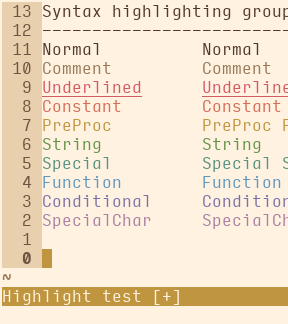
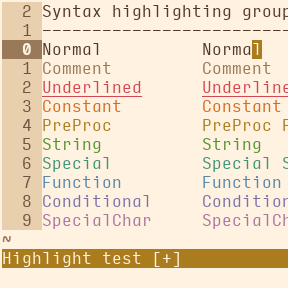
overhaul

Changed region(s): [[0.0, 0.0, 1.0, 0.9688], [0.6875, 0.75, 1.0, 0.8125]]

diff --git a/transmogrify.md b/transmogrify.md
@@ -18,19 +18,21 @@
 %s/e8e8e8/e8d0ae/ |
 %s/f8f8f8/fff2e0/ |
 
-%s/ab4642/d45963/ |
-%s/dc9656/d46d59/ |
-%s/f7ca88/bf953f/ |
-%s/a1b56c/63944a/ |
-%s/86c1b9/56947f/ |
-%s/7cafc2/6097bf/ |
+%s/ab4642/d44652/ |
+%s/dc9656/d46d24/ |
+%s/f7ca88/ab7c1d/ |
+%s/a1b56c/529431/ |
+%s/86c1b9/3e9477/ |
+%s/7cafc2/5687ab/ |
 %s/ba8baf/7c72ab/ |
-%s/a16946/ab80a4/ |
+%s/a16946/ab73a2/ |
 
 %s/Character",    s:gui08, "", s:cterm08/Character",    s:gui0A, "", s:cterm0A/ |
 %s/Cursor",        s:gui00, s:gui05, s:cterm00, s:cterm05/Cursor",        s:gui00, s:gui0A, s:cterm00, s:cterm0A/ |
+%s/CursorLineNr",  s:gui04, s:gui01, s:cterm04, s:cterm01/CursorLineNr",  s:gui00, s:gui03, s:cterm00, s:cterm03/ |
 %s/Identifier",   s:gui08, "", s:cterm08, "", "none/Identifier",   s:gui0A, "", s:cterm0A, "", "bold/ |
 %s/LineNr",        s:gui03, s:gui01, s:cterm03/LineNr",        s:gui04, s:gui01, s:cterm04/ |
+%s/MatchParen",    "", s:gui03, "", s:cterm03/MatchParen",    s:gui00, s:gui03, s:cterm00, s:cterm03/ |
 %s/Search",        s:gui03, s:gui0A, s:cterm03, s:cterm0A/Search",        s:gui00, s:gui04, s:cterm00, s:cterm04/ |
 %s/statusline",    s:gui04, s:gui02, s:cterm04, s:cterm02/statusline",    s:gui00, s:gui0A, s:cterm00, s:cterm0A/ |
 %s/StatusLineNC",  s:gui03, s:gui01, s:cterm03, s:cterm01/StatusLineNC",  s:gui05, s:gui01, s:cterm05, s:cterm01/ |
@@ -57,14 +59,14 @@ normal =gg
 %s#d8/d8/d8#bf/a5/80# |
 %s#e8/e8/e8#e8/d0/ae# |
 %s#f8/f8/f8#ff/f2/e0# |
-%s#ab/46/42#d4/59/63# |
-%s#dc/96/56#d4/6d/59# |
-%s#f7/ca/88#bf/95/3f# |
-%s#a1/b5/6c#63/94/4a# |
-%s#86/c1/b9#56/94/7f# |
-%s#7c/af/c2#60/97/bf# |
+%s#ab/46/42#d4/46/52# |
+%s#dc/96/56#d4/6d/24# |
+%s#f7/ca/88#ab/7c/1d# |
+%s#a1/b5/6c#52/94/31# |
+%s#86/c1/b9#3e/94/77# |
+%s#7c/af/c2#56/87/ab# |
 %s#ba/8b/af#7c/72/ab# |
-%s#a1/69/46#ab/80/a4# |
+%s#a1/69/46#ab/73/a2# |
 
 %s/181818/1f130d/ge |
 %s/383838/523a29/g |
@@ -72,5 +74,5 @@ normal =gg
 %s/f8f8f8/fff2e0/ge |
 
 call append(123,["",
-"echo -ne '\\e]12;#bf953f\\a'"])
+"echo -ne '\\e]12;#ab7c1d\\a'"])
 ```
